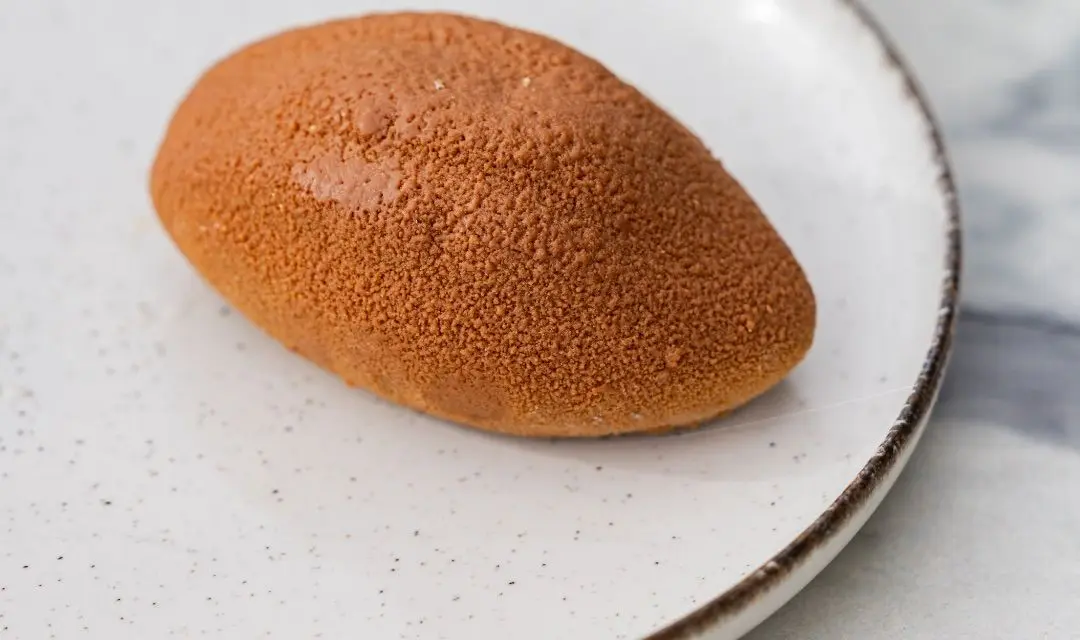
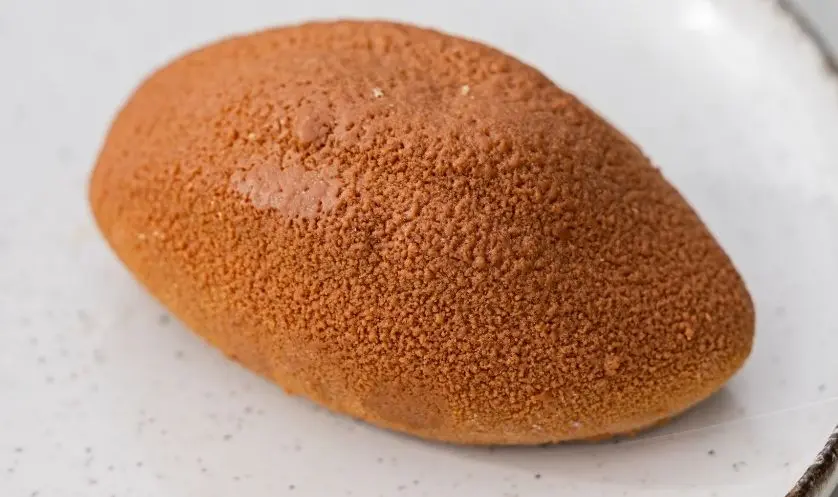
Trompe-l'œil : chaque pâtisserie entière et centrée dans sa photo
- nouveau cadrage des 7 photos, centré sur la pâtisserie (ordinateur et téléphone)
- la mangue vient de sa propre photo, sans texte par-dessus
- version ajoutée aux adresses des photos pour que les téléphones chargent les nouvelles

diff --git a/index.html b/index.html
@@ -326,13 +326,13 @@
       <button class="tlo__btn" type="button" data-dir="1" aria-label="Suivant" data-i18n-attr="aria-label:ui.next"><svg viewBox="0 0 24 24" aria-hidden="true"><path d="M9 5l7 7-7 7" fill="none" stroke="currentColor" stroke-width="1.8" stroke-linecap="round" stroke-linejoin="round"/></svg></button>
     </div>
     <div class="tlo__strip" tabindex="0" data-i18n-attr="aria-label:crea.tlo.strip" aria-label="Trompe-l'œil, faire défiler">
-      <figure class="tlo__item"><img src="assets/img/tlo-mangue-700.webp" alt="Trompe-l'œil mangue" data-i18n-attr="alt:tlo.mangue" loading="lazy" decoding="async" width="700" height="415"><figcaption data-i18n="tlo.mangue">La Mangue</figcaption></figure>
-      <figure class="tlo__item"><img src="assets/img/tlo-pecan-700.webp" alt="Trompe-l'œil noix de pécan" data-i18n-attr="alt:tlo.pecan" loading="lazy" decoding="async" width="700" height="415"><figcaption data-i18n="tlo.pecan">La Noix de pécan</figcaption></figure>
-      <figure class="tlo__item"><img src="assets/img/tlo-passion-700.webp" alt="Trompe-l'œil fruit de la passion" data-i18n-attr="alt:tlo.passion" loading="lazy" decoding="async" width="700" height="415"><figcaption data-i18n="tlo.passion">Le Fruit de la passion</figcaption></figure>
-      <figure class="tlo__item"><img src="assets/img/tlo-cacao-700.webp" alt="Trompe-l'œil cabosse de cacao" data-i18n-attr="alt:tlo.cacao" loading="lazy" decoding="async" width="700" height="415"><figcaption data-i18n="tlo.cacao">Le Cacao</figcaption></figure>
-      <figure class="tlo__item"><img src="assets/img/tlo-cacahuete-700.webp" alt="Trompe-l'œil cacahuète" data-i18n-attr="alt:tlo.cacahuete" loading="lazy" decoding="async" width="700" height="415"><figcaption data-i18n="tlo.cacahuete">La Cacahuète</figcaption></figure>
-      <figure class="tlo__item"><img src="assets/img/tlo-vanille-700.webp" alt="Trompe-l'œil gousse de vanille" data-i18n-attr="alt:tlo.vanille" loading="lazy" decoding="async" width="700" height="415"><figcaption data-i18n="tlo.vanille">La Vanille</figcaption></figure>
-      <figure class="tlo__item"><img src="assets/img/tlo-pistache-700.webp" alt="Trompe-l'œil pistache" data-i18n-attr="alt:tlo.pistache" loading="lazy" decoding="async" width="700" height="415"><figcaption data-i18n="tlo.pistache">La Pistache</figcaption></figure>
+      <figure class="tlo__item"><img src="assets/img/tlo-mangue-700.webp?v=2" alt="Trompe-l'œil mangue" data-i18n-attr="alt:tlo.mangue" loading="lazy" decoding="async" width="700" height="415"><figcaption data-i18n="tlo.mangue">La Mangue</figcaption></figure>
+      <figure class="tlo__item"><img src="assets/img/tlo-pecan-700.webp?v=2" alt="Trompe-l'œil noix de pécan" data-i18n-attr="alt:tlo.pecan" loading="lazy" decoding="async" width="700" height="415"><figcaption data-i18n="tlo.pecan">La Noix de pécan</figcaption></figure>
+      <figure class="tlo__item"><img src="assets/img/tlo-passion-700.webp?v=2" alt="Trompe-l'œil fruit de la passion" data-i18n-attr="alt:tlo.passion" loading="lazy" decoding="async" width="700" height="415"><figcaption data-i18n="tlo.passion">Le Fruit de la passion</figcaption></figure>
+      <figure class="tlo__item"><img src="assets/img/tlo-cacao-700.webp?v=2" alt="Trompe-l'œil cabosse de cacao" data-i18n-attr="alt:tlo.cacao" loading="lazy" decoding="async" width="700" height="415"><figcaption data-i18n="tlo.cacao">Le Cacao</figcaption></figure>
+      <figure class="tlo__item"><img src="assets/img/tlo-cacahuete-700.webp?v=2" alt="Trompe-l'œil cacahuète" data-i18n-attr="alt:tlo.cacahuete" loading="lazy" decoding="async" width="700" height="415"><figcaption data-i18n="tlo.cacahuete">La Cacahuète</figcaption></figure>
+      <figure class="tlo__item"><img src="assets/img/tlo-vanille-700.webp?v=2" alt="Trompe-l'œil gousse de vanille" data-i18n-attr="alt:tlo.vanille" loading="lazy" decoding="async" width="700" height="415"><figcaption data-i18n="tlo.vanille">La Vanille</figcaption></figure>
+      <figure class="tlo__item"><img src="assets/img/tlo-pistache-700.webp?v=2" alt="Trompe-l'œil pistache" data-i18n-attr="alt:tlo.pistache" loading="lazy" decoding="async" width="700" height="415"><figcaption data-i18n="tlo.pistache">La Pistache</figcaption></figure>
     </div>
     </div>
   </div>
